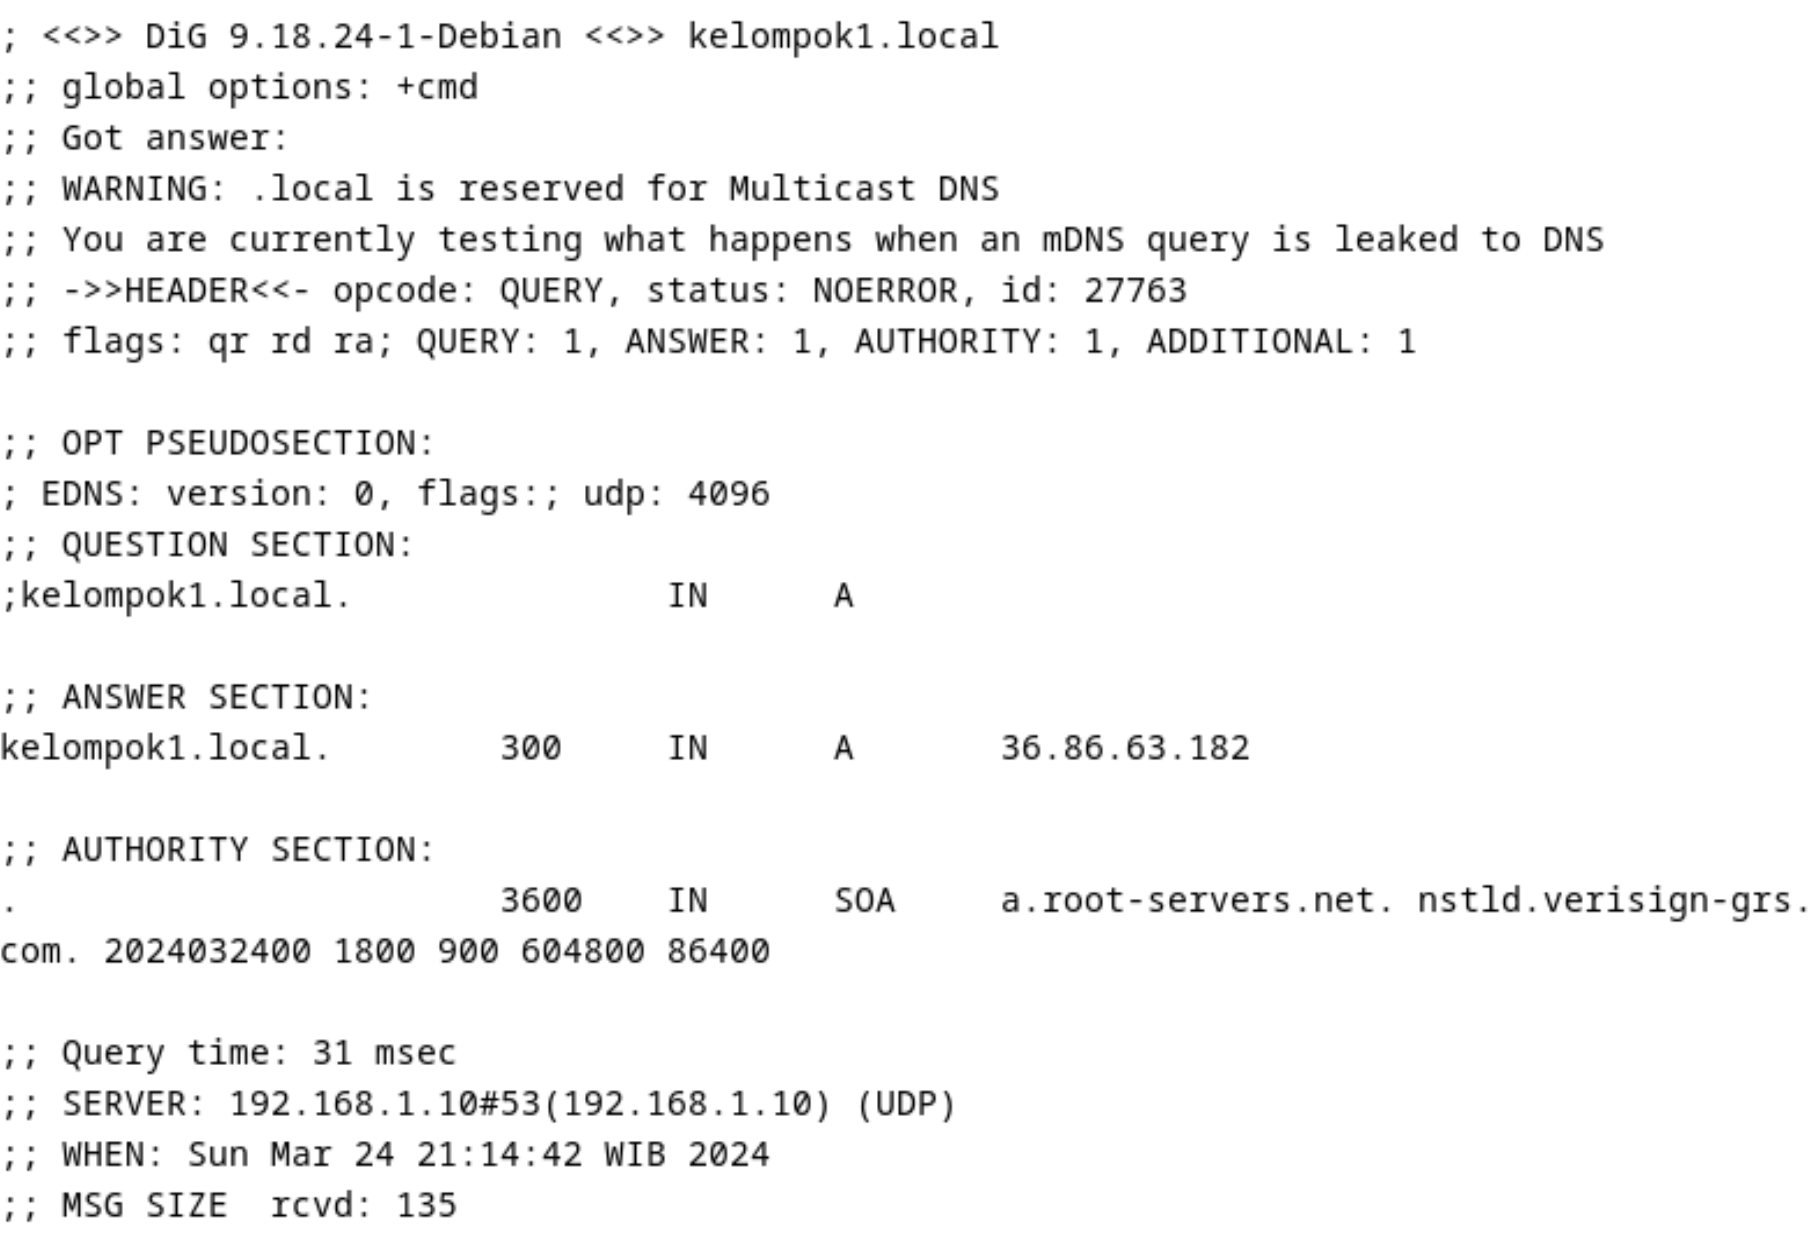
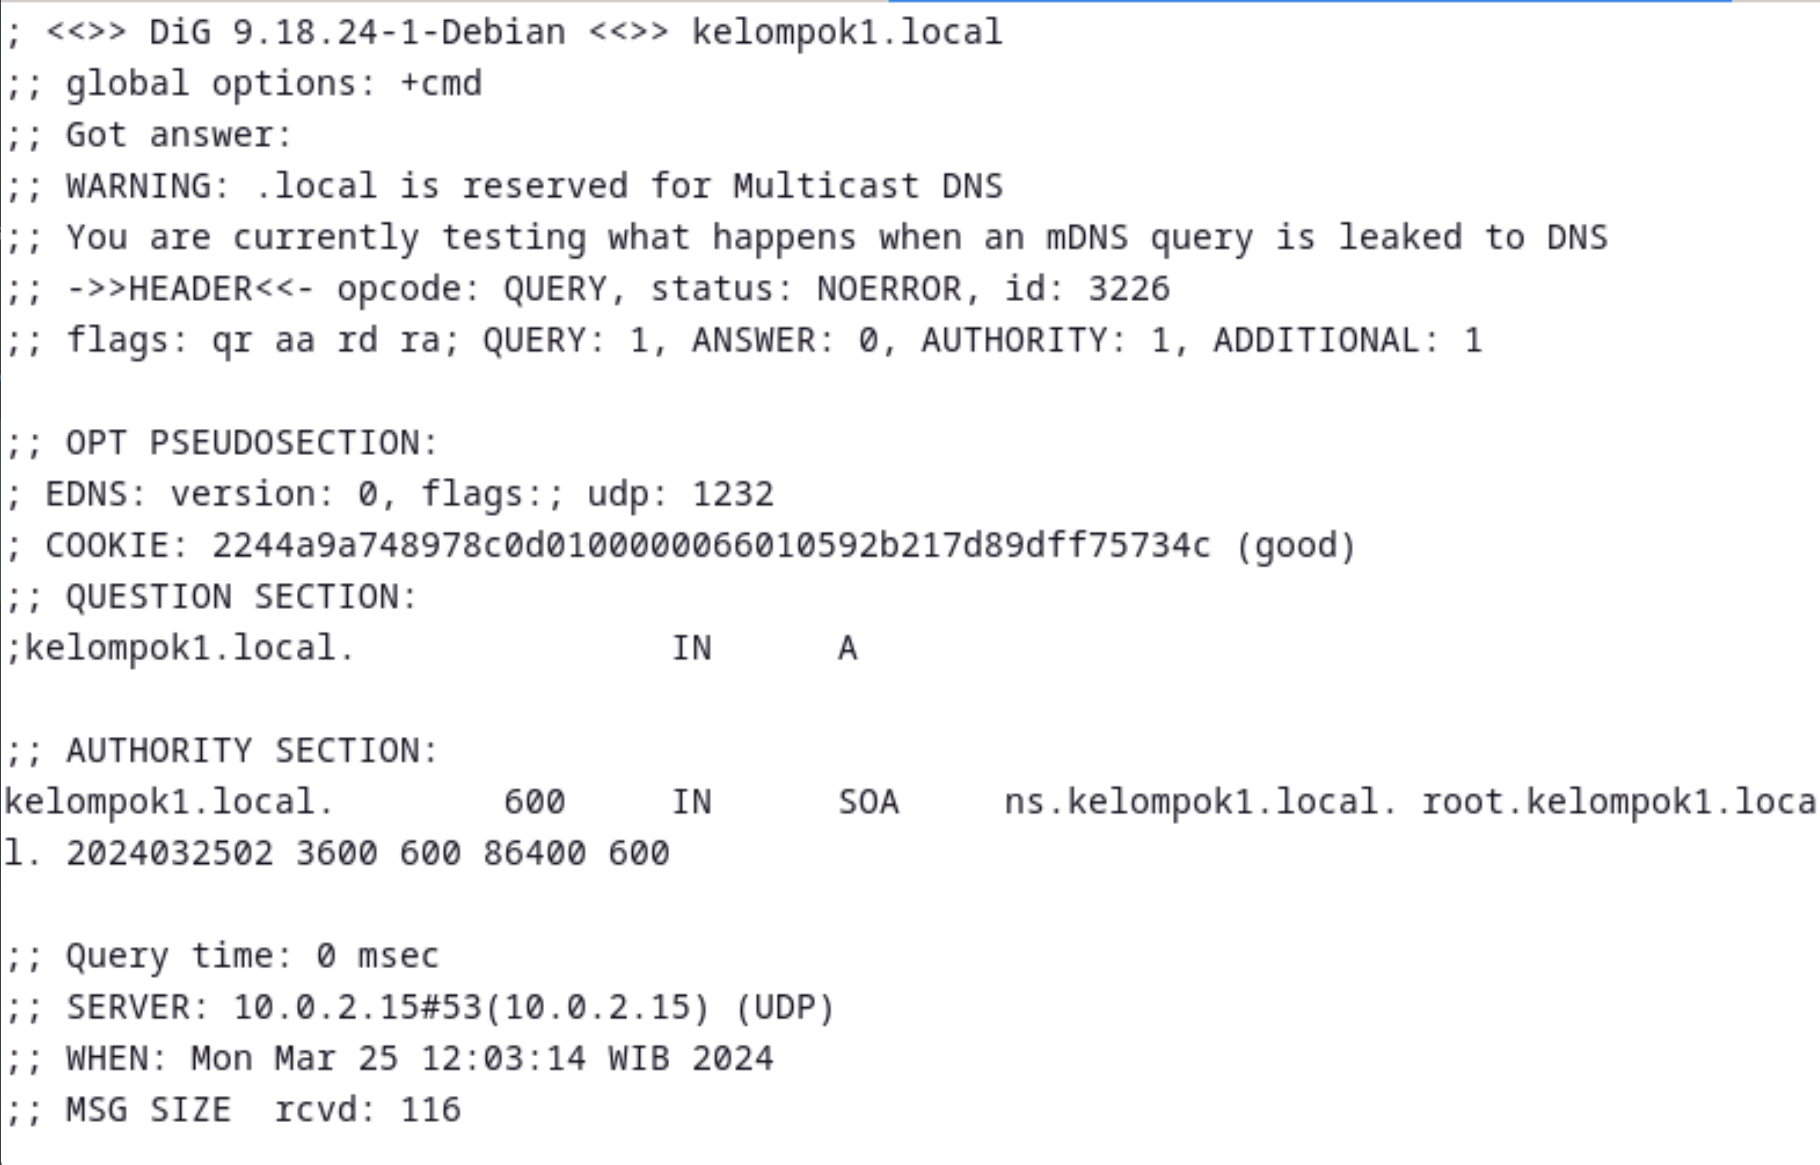
fixed IP

diff --git a/minggu5/instalasi-bind9.md b/minggu5/instalasi-bind9.md
@@ -3,57 +3,78 @@ Untuk dokumentasi dari bind9 dapat diakses melalui [Bind9 - Debian Wiki](https:/
 
 Berikut langkah-langkah instalasi dan konfigurasi dari bind9
 
+**Install Bind9 beserta dokumentasinya dan dnsutils**
 ![intall nid9 beserta dnsutils dan dokumentasinya](../assets/install-bind9.png)
+
+**Konfigurasi file named**
 
 ![](../assets/cd-etc-bind.png)
 
-![masuk kek nano editor file conf](../assets/nano-named.conf.png)
+![masuk ke nano editor file conf](../assets/sudo-nano-named.conf.png)
 
-![](../assets/nano-named.conf-edit.png)
+![](../assets/sudo-nano-named.conf-edit.png)
 
-![masuk ke nano editor conf.options](../assets/nano-named.conf.options.png)
+![masuk ke nano editor conf.options](../assets/sudo-nano-named.conf.options.png)
 
-![](../assets/nano-named.conf.options-edit-1.png)
+![](../assets/sudo-nano-named.conf.options-edit1.png)
 
-![](../assets/nano-named.conf.options-edit-2.png)
+![](../assets/sudo-nano-named.conf.options-edit2.png)
 
-![masuk ke nano editor conf.local](../assets/nano-named.conf.local.png)
+![](../assets/sudo-nano-named.conf.options-edit3.png)
 
-![](../assets/nano-named.conf.local-edit-1.png)
+![masuk ke nano editor conf.local](../assets/sudo-nano-named.conf.local.png)
 
-![](../assets/nano-named.conf.local-edit-2.png)
+![](../assets/sudo-nano-named.conf.local-edit1.png)
 
-`cd /var/lib/bind`
-`sudo nano db.kelompok1.local`
+![](../assets/sudo-nano-named.conf.local-edit2.png)
 
-![masuk ke nano editor file db.kelompok1.local](../assets/nano-db.kelompok1.local.png)
+**Konfigurasi file db.kelompok**
 
-`sudo nano db.kelompok1.local.inv`
+![masuk ke direktori /var/lib/bind](../assets/cd-var-lib-bind.png)
 
-![masuk ke nano editor file db.kelompok1.local.invers](../assets/nano-db.kelompok1.local.inv.png)
+![masuk ke nano editor file db.kelompok1.local](../assets/sudo-nano-db.kelompok1.local.png)
 
-`sudo nano /etc/resolv.conf`
+![](../assets/sudo-nano-db.kelompok1.local-edit.png)
 
-![masuk ke nano editor resolv.cof](../assets/nano-etc-resolv-conf.png)
+![masuk ke nano editor file db.kelompok1.local.invers](../assets/sudo-nano-db.kelompok1.local.inv.png)
 
-![cek konfigurasi](../assets/checkconf-named.conf.png)
+![](../assets/sudo-nano-db.kelompok1.local.inv-edit.png)
 
-![cek zone local](../assets/checkzone-db.kelompok1.local.png)
+**Konfigurasi file resolv.conf**
 
-![cek zone local invers](../assets/checkzone-db.kelompok1.local.inv.png)
+![masuk ke nano editor resolv.conf](../assets/sudo-nano-etc-resolv.conf.png)
 
-![systemctl restart](../assets/systemctl-restart.png)
+![](../assets/sudo-nano-etc-resolv.conf-edit.png)
 
-![systemctl status](../assets/systemctl-status.png)
+**Mengecek hasil konfigurasi dan zone**
+Pada saat mengecek konfigurasi menggunakan perintah `sudo named-checkconf`, ketika sudah benar semua, tidak ada yang dikembalikan dari perintah tersebut.
+
+![cek konfigurasi](../assets/sudo-named-checkconf-etc-bind-named.conf.png)
+
+Sedangkan saat mengecek zone menggunakan perintah `sudo named-checkzone`, jika sudah benar maka akan muncul **OK** pada bagian akhirnya
+
+![cek zone local](../assets/sudo-named-checkzone-kelompok1.local-db.kelompok1.local.png)
+
+![cek zone local invers](../assets/sudo-named-checkzone-2.0.10.inaddr-arpa-db.kelompok1.local.inv.png)
+
+**Melakukan systemctl restart dan mengecek status**
+Setiap kali setelah merubah file konfigurasi, lakukan restart seperti berikut.
+
+![systemctl restart](../assets/sudo-systemctl-restart-named.png)
+
+Jiak proses restart sudah berhasil, maka tidak akan menampilkan apapun.
+
+![systemctl status](../assets/sudo-systemctl-status-named.png)
+
+**Melakukan dig dan nslookup**
+Saat sudah benar semua konfigurasinya, kita dapat melakukan dig pada kelompok.local serta pada 10.0.2.15, dan juga dapat melakukan nslookup terhadap ns yang telah diset serta pada mail.
 
 ![dig kelompok1.local](../assets/dig-kelompok1.local.png)
 
 ![](../assets/dig-kelompok1.local-result.png)
 
-![dig -x 192.168.1.10](../assets/dig--x-192.168.1.10.png)
-
-![](../assets/dig--x-192.168.1.10-result.png)
+![dig -x 192.168.1.10](../assets/dig--x-10.0.2.15.png)
 
 ![nslookup ns](../assets/nslookup-ns.png)
 
-![](../assets/nslookup-ns-result.png)
+![](../assets/nslookup--d=MX.png)
